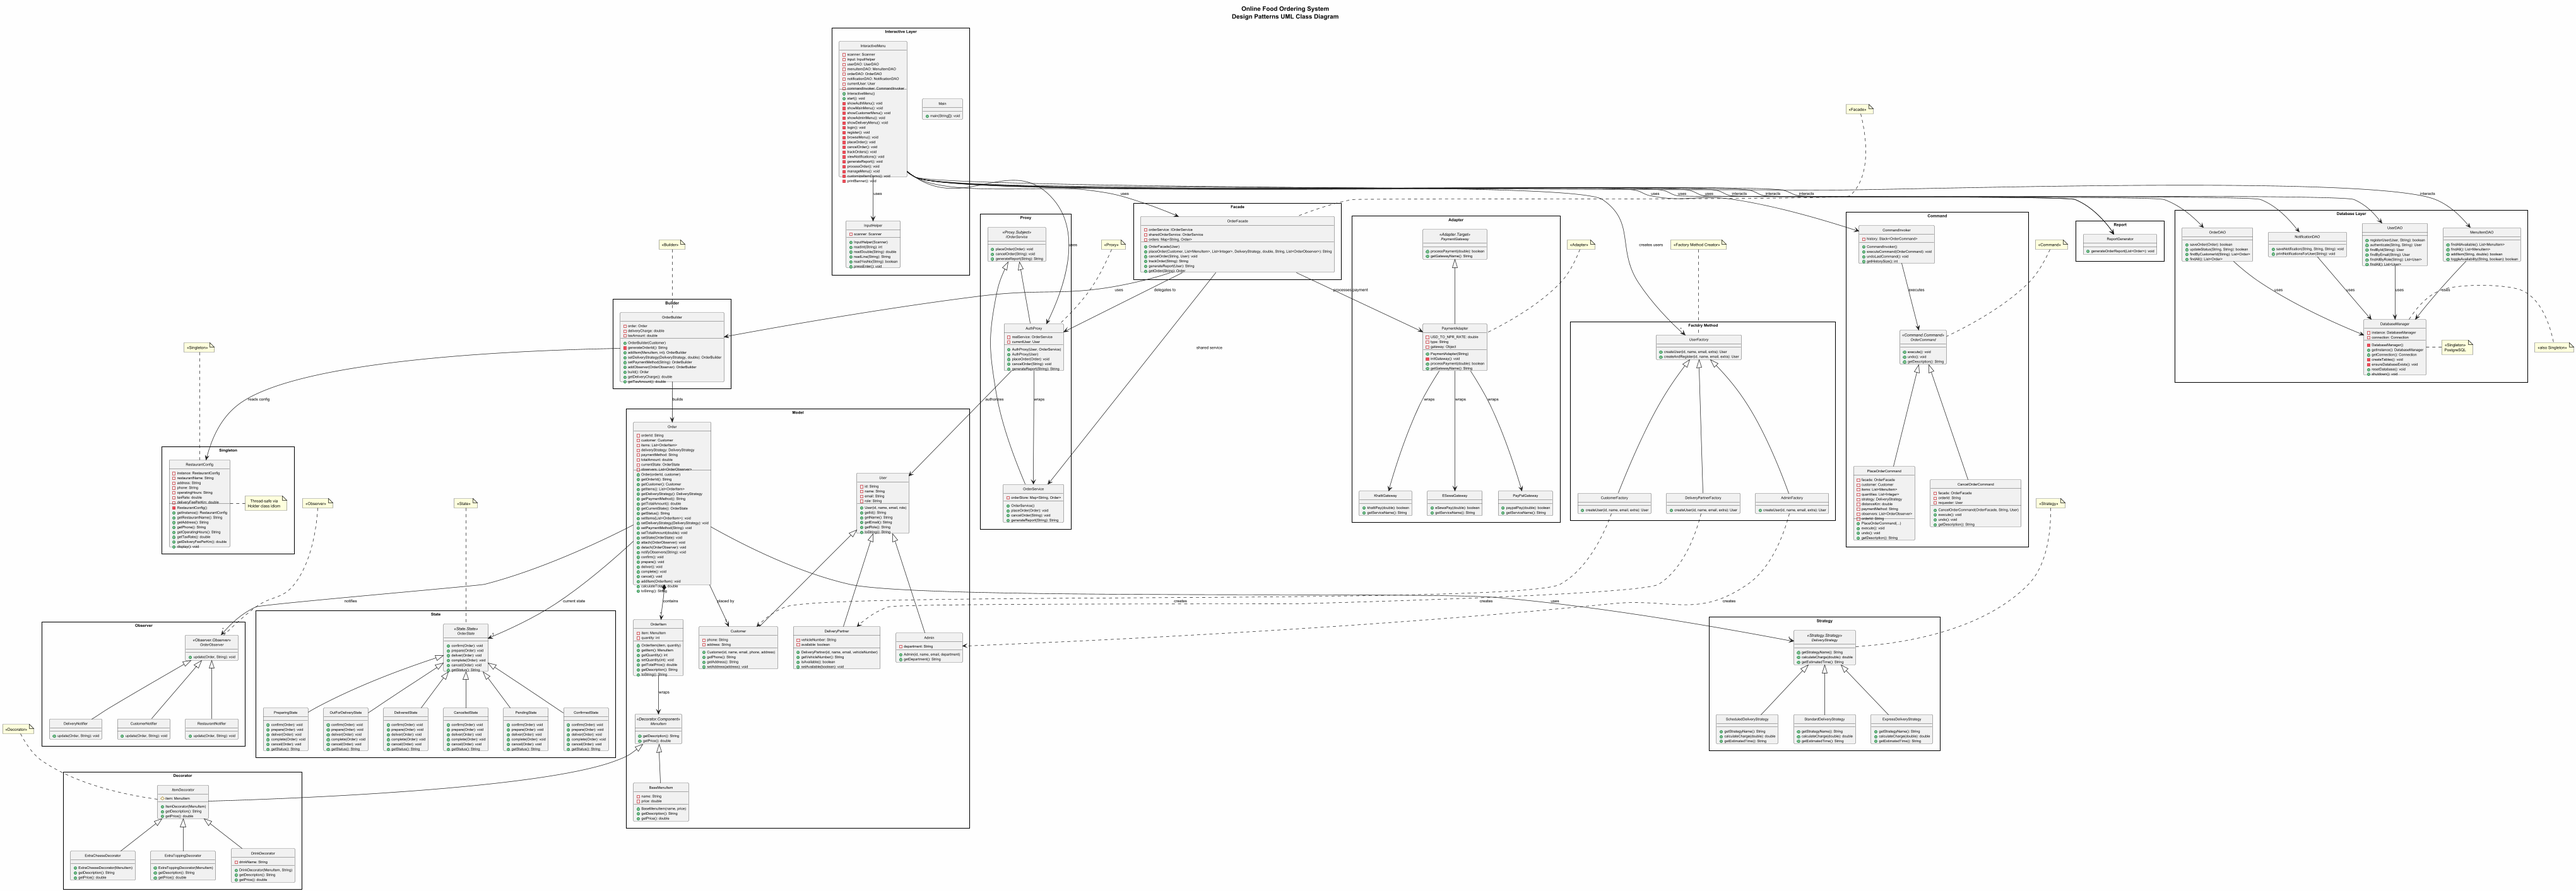
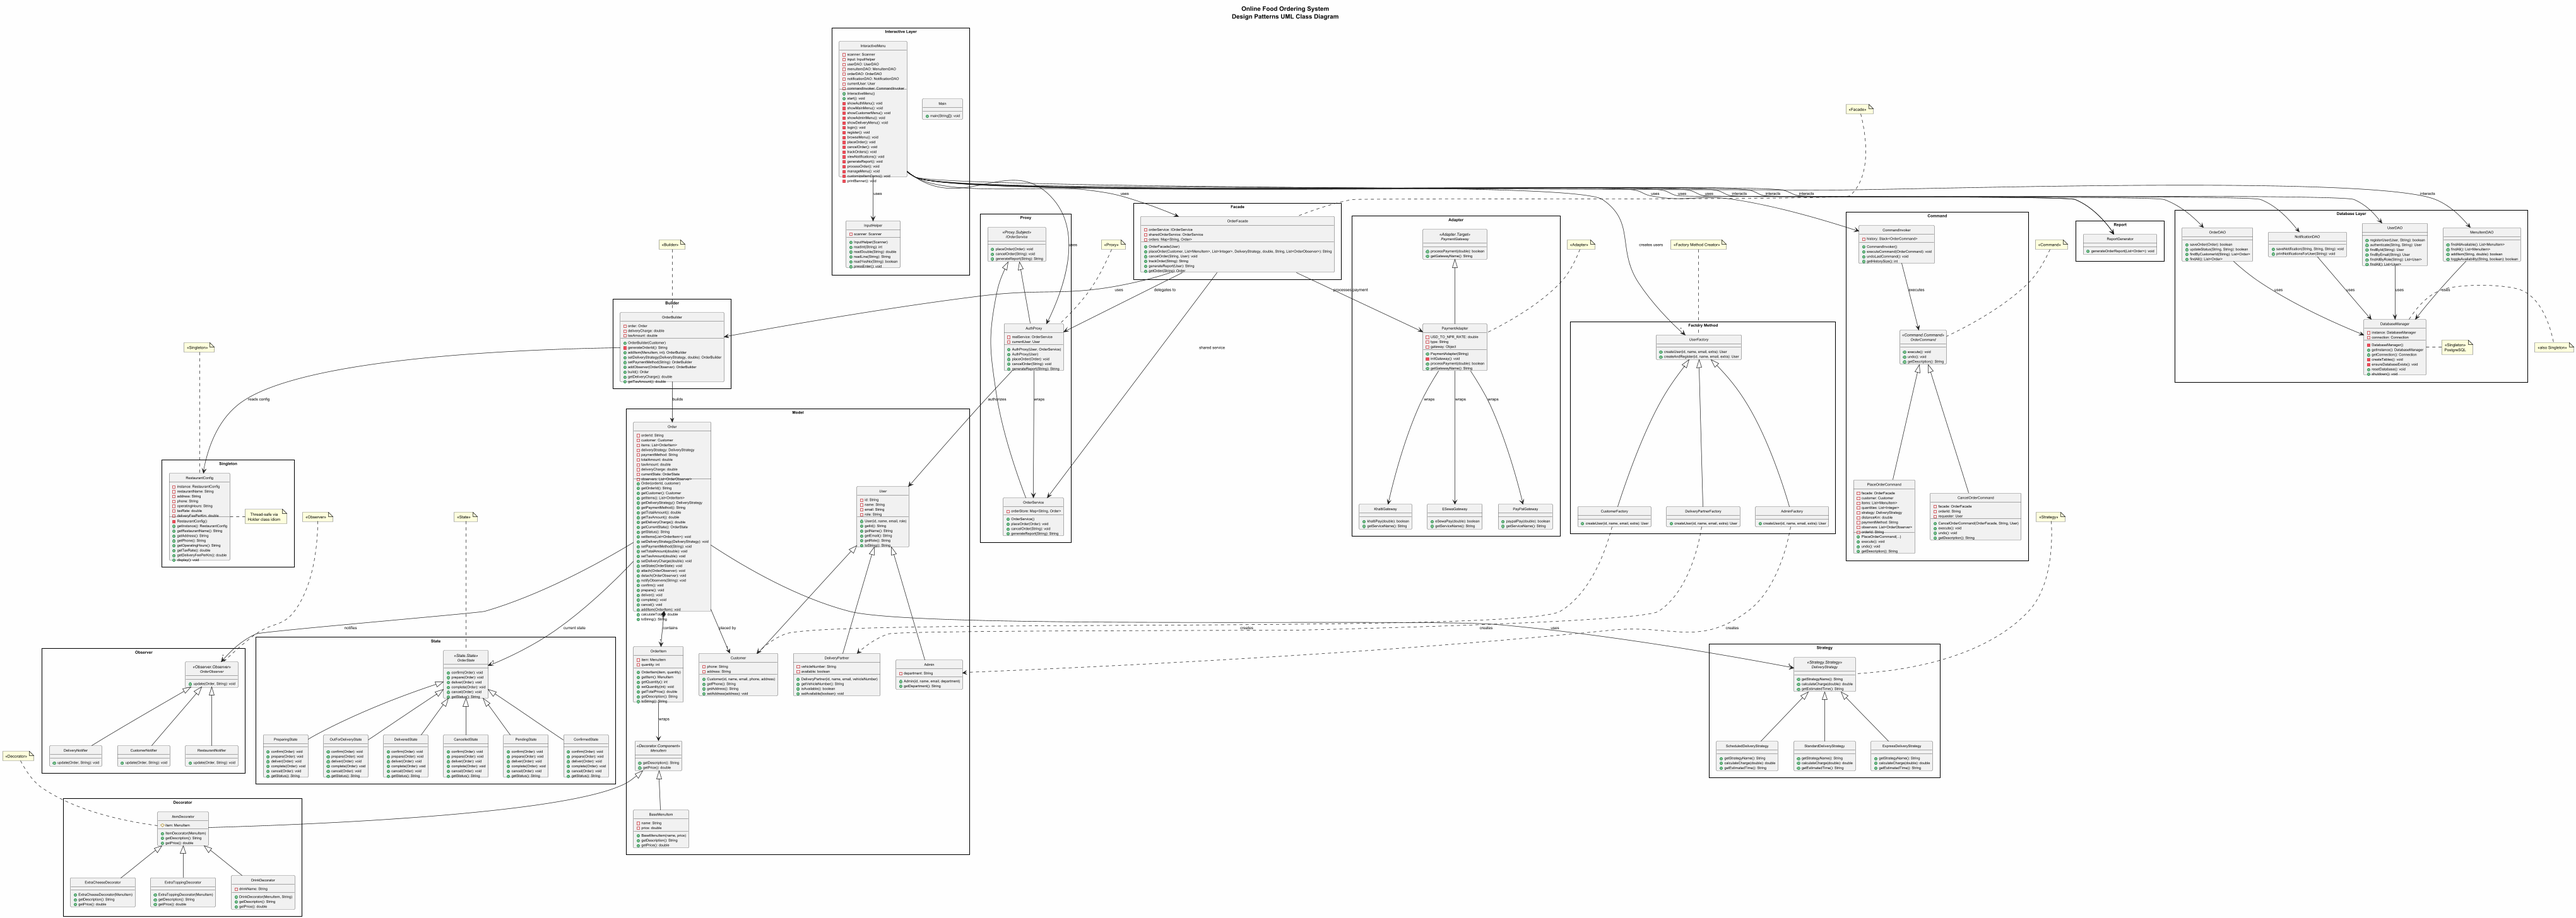
Fix tax/delivery charge persistence and docs cleanup
- Add taxAmount and deliveryCharge fields to Order.java with getters/setters
- Set taxAmount and deliveryCharge in OrderBuilder.build()
- Read Order.getTaxAmount()/getDeliveryCharge() in OrderDAO.saveOrder() instead of hardcoded 0
- Fix README.md and PROJECT_REPORT.md data/ directory comment
- Update UML diagram with new Order fields

diff --git a/src/main/java/com/foodordering/model/Order.java b/src/main/java/com/foodordering/model/Order.java
@@ -22,6 +22,8 @@ public class Order {
     private DeliveryStrategy deliveryStrategy;
     private String paymentMethod;
     private double totalAmount;
+    private double taxAmount;
+    private double deliveryCharge;
     private OrderState currentState;
     private List<OrderObserver> observers;
 
@@ -44,6 +46,8 @@ public class Order {
     public DeliveryStrategy getDeliveryStrategy() { return deliveryStrategy; }
     public String getPaymentMethod() { return paymentMethod; }
     public double getTotalAmount() { return totalAmount; }
+    public double getTaxAmount() { return taxAmount; }
+    public double getDeliveryCharge() { return deliveryCharge; }
     public OrderState getCurrentState() { return currentState; }
     public String getStatus() { return currentState.getStatus(); }
 
@@ -51,6 +55,8 @@ public class Order {
     public void setDeliveryStrategy(DeliveryStrategy s) { this.deliveryStrategy = s; }
     public void setPaymentMethod(String paymentMethod) { this.paymentMethod = paymentMethod; }
     public void setTotalAmount(double totalAmount) { this.totalAmount = totalAmount; }
+    public void setTaxAmount(double taxAmount) { this.taxAmount = taxAmount; }
+    public void setDeliveryCharge(double deliveryCharge) { this.deliveryCharge = deliveryCharge; }
 
     /**
      * Changes the current state and notifies all observers.

diff --git a/src/main/java/com/foodordering/db/OrderDAO.java b/src/main/java/com/foodordering/db/OrderDAO.java
@@ -36,8 +36,8 @@ public class OrderDAO {
             stmt.setString(4, order.getDeliveryStrategy() != null ? order.getDeliveryStrategy().getStrategyName() : null);
             stmt.setString(5, order.getPaymentMethod());
             stmt.setDouble(6, order.calculateTotal());
-            stmt.setDouble(7, 0);
-            stmt.setDouble(8, 0);
+            stmt.setDouble(7, order.getTaxAmount());
+            stmt.setDouble(8, order.getDeliveryCharge());
             stmt.setDouble(9, order.getTotalAmount());
             stmt.setString(10, order.getStatus());
             stmt.executeUpdate();

diff --git a/src/main/java/com/foodordering/builder/OrderBuilder.java b/src/main/java/com/foodordering/builder/OrderBuilder.java
@@ -66,6 +66,8 @@ public class OrderBuilder {
         this.taxAmount = subtotal * taxRate;
         double total = subtotal + taxAmount + deliveryCharge;
         order.setTotalAmount(total);
+        order.setTaxAmount(this.taxAmount);
+        order.setDeliveryCharge(this.deliveryCharge);
         return order;
     }
 

diff --git a/PROJECT_REPORT.md b/PROJECT_REPORT.md
@@ -592,7 +592,7 @@ src/main/java/com/foodordering/
 src/test/java/com/foodordering/
 └── FoodOrderingSystemTest.java       # 17 JUnit tests
 
-data/                                 # PostgreSQL database (auto-created)
+data/                                 # (reserved — not used with PostgreSQL)
 docs/
 ├── uml-diagram.puml                  # PlantUML source
 └── uml-diagram.png                   # Rendered UML class diagram

diff --git a/README.md b/README.md
@@ -75,7 +75,7 @@ src/main/java/com/foodordering/
 src/test/java/com/foodordering/
 └── FoodOrderingSystemTest.java       # 17 JUnit tests
 
-data/                                 # PostgreSQL database (auto-created)
+data/                                 # (reserved — not used with PostgreSQL)
 docs/
 ├── uml-diagram.puml                  # PlantUML source
 └── uml-diagram.png                   # Rendered UML class diagram
